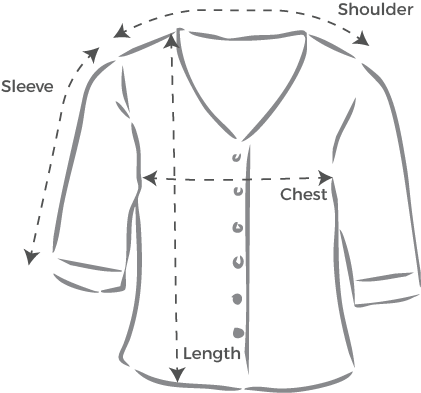
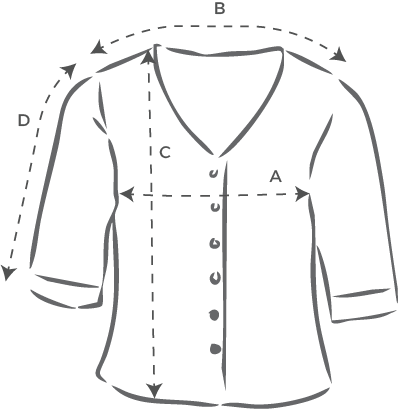
Adds support for i18n and updates clothing illustrations

diff --git a/backend/src/services/sizeTemplateService.js b/backend/src/services/sizeTemplateService.js
@@ -12,9 +12,9 @@ export const PRODUCT_CATEGORIES = {
     description: 'T-shirts, shirts, blouses, sweaters',
     defaultFields: [
       { key: 'chest', label: 'Chest', required: true },
-      { key: 'waist', label: 'Waist', required: true },
+      { key: 'shoulder', label: 'Shoulder', required: true },
       { key: 'length', label: 'Length', required: true },
-      { key: 'shoulder', label: 'Shoulder', required: false },
+      { key: 'sleeve', label: 'Sleeve Length', required: true },
     ],
   },
   BOTTOMS: {

diff --git a/backend/src/views/template-form.html b/backend/src/views/template-form.html
@@ -1051,7 +1051,7 @@
         { value: 'bottom-shorts', label: 'Shorts (Coming Soon)', free: false, disabled: true },
       ],
       DRESSES: [
-        { value: 'top-blouse', label: 'Dress / Jumpsuit', free: true },
+        { value: 'dress', label: 'Dress / Jumpsuit', free: true },
       ],
       OUTERWEAR: [
         { value: 'top-jumper', label: 'Jacket / Coat', free: true },
